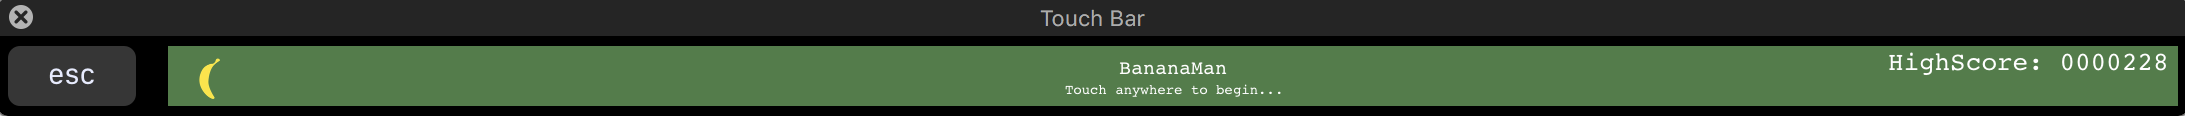
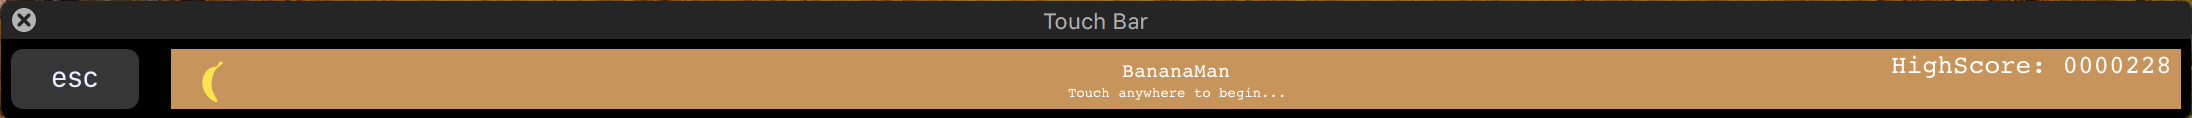
update game colours

diff --git a/BananaMan/BananaMan/BananaManScene.swift b/BananaMan/BananaMan/BananaManScene.swift
@@ -75,7 +75,7 @@ class BananaManScene: SKScene, SKPhysicsContactDelegate {
         self.addChild(bananamanSprite())
         self.addChild(scoreLabel())
         self.physicsWorld.contactDelegate = self
-        self.backgroundColor = SKColor(red: 84/255.0, green: 124/255.0, blue: 75/255.0, alpha: 1)
+        self.backgroundColor = SKColor(red: 200/255.0, green: 149/255.0, blue: 91/255.0, alpha: 1)
 
         self.physicsBody = bottomCollider
         bottomCollider.categoryBitMask = PhysicsCategory.Edge | PhysicsCategory.Collider
@@ -127,11 +127,11 @@ class BananaManScene: SKScene, SKPhysicsContactDelegate {
     func scoreFormat(score: Int) -> String {
         return String(format: "%07d", score)
     }
-    
+
     func generateScore() -> String {
         return scoreFormat(score: currentScore)
     }
-    
+
     func newHighscore() -> Bool {
         return currentScore > defaults.integer(forKey: "highscore")
     }
@@ -159,7 +159,7 @@ class BananaManScene: SKScene, SKPhysicsContactDelegate {
         defaults.set(currentScore, forKey: "highscore")
         scoreNode.text = "New Highscore: " + scoreNode.text!
     }
-    
+
     func endGame() {
 
         titleNode.isHidden = false
@@ -173,7 +173,7 @@ class BananaManScene: SKScene, SKPhysicsContactDelegate {
         if (newHighscore()) {
             updateHighscore()
         }
-        
+
         for node in self.children {
             if (node.physicsBody?.categoryBitMask == PhysicsCategory.Obstacle) {
                 node.physicsBody?.velocity = CGVector(dx:0, dy:0)
